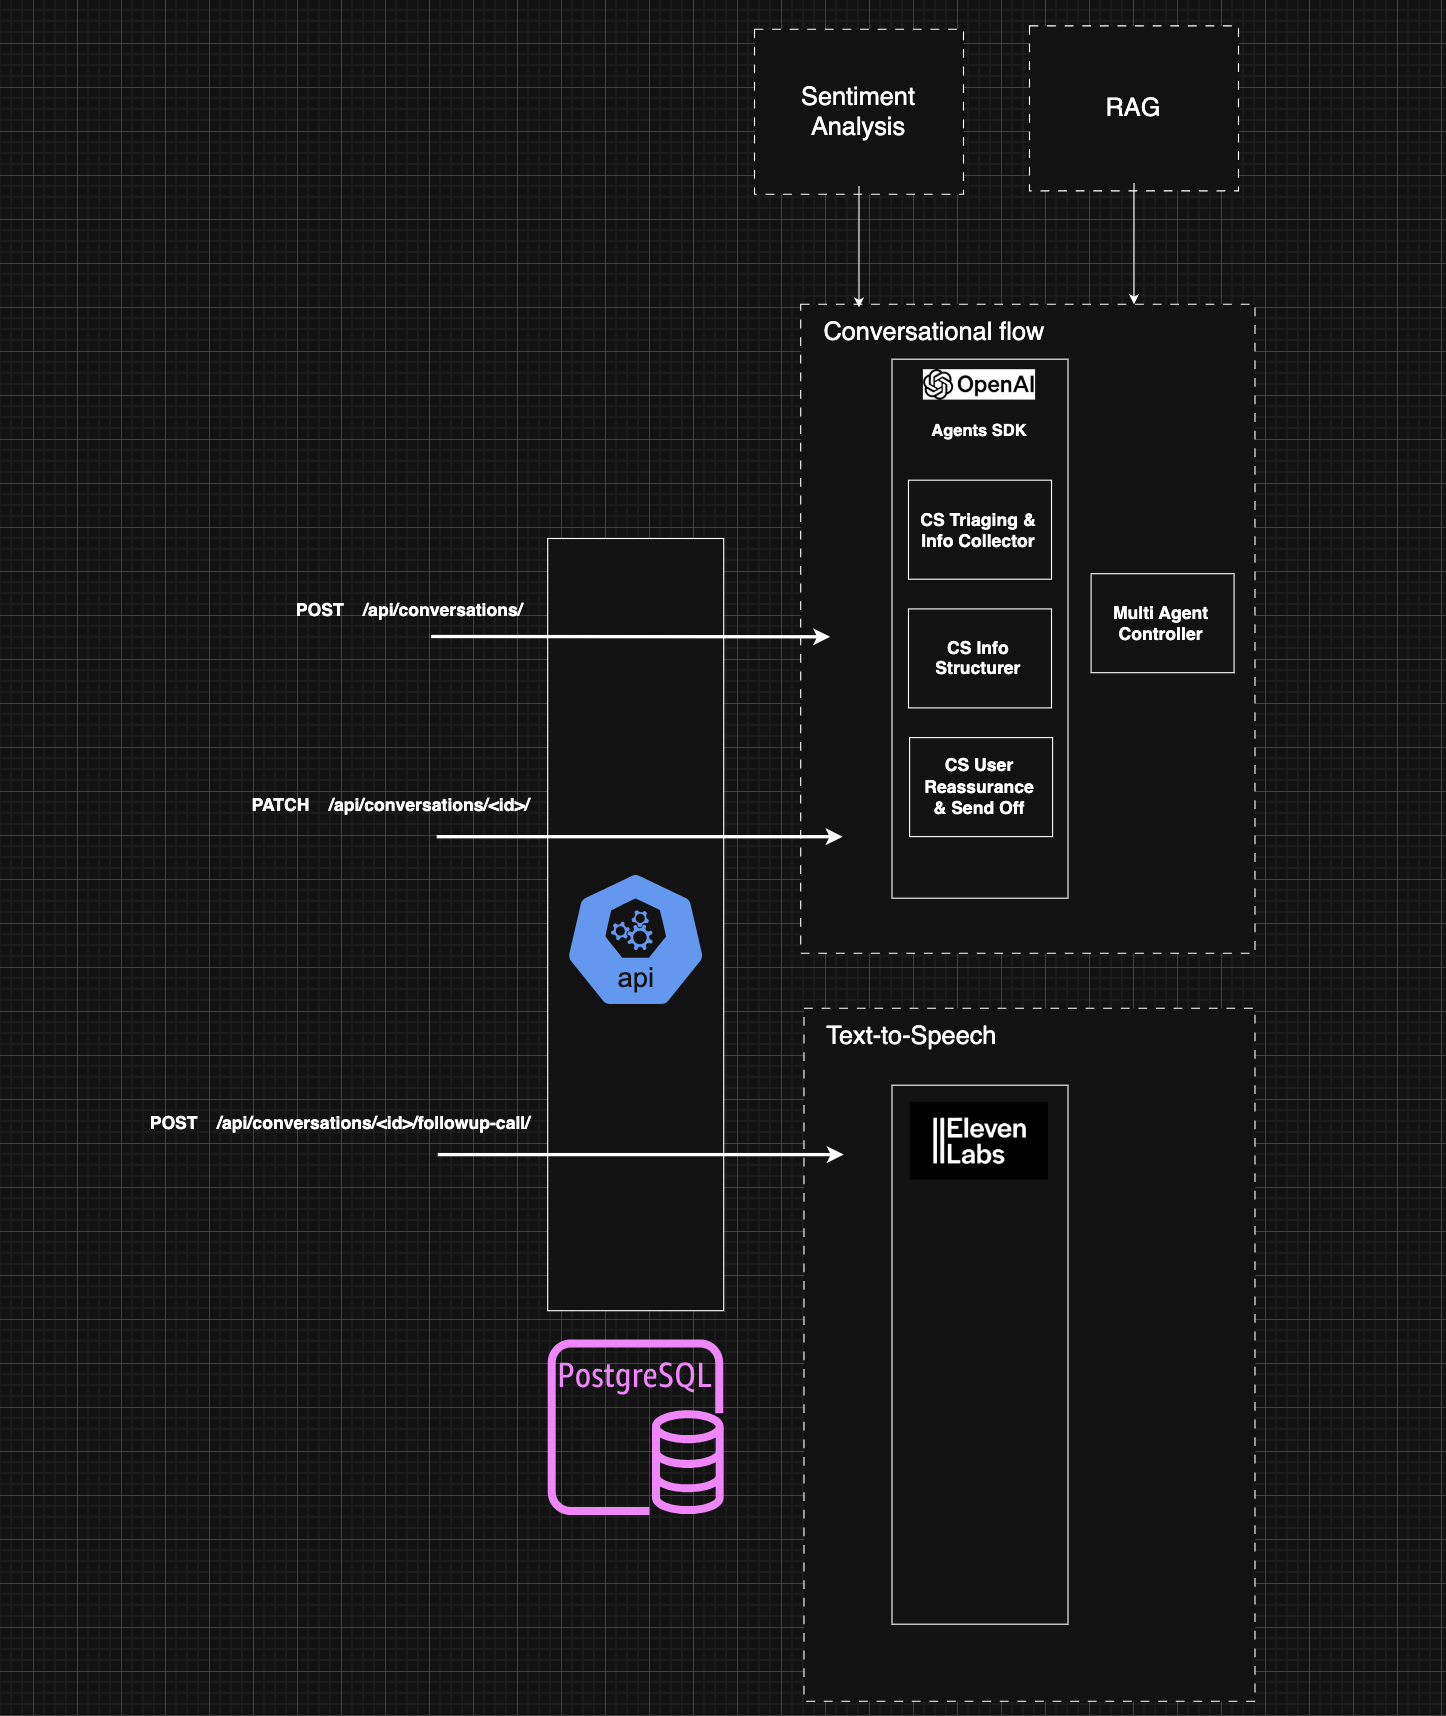
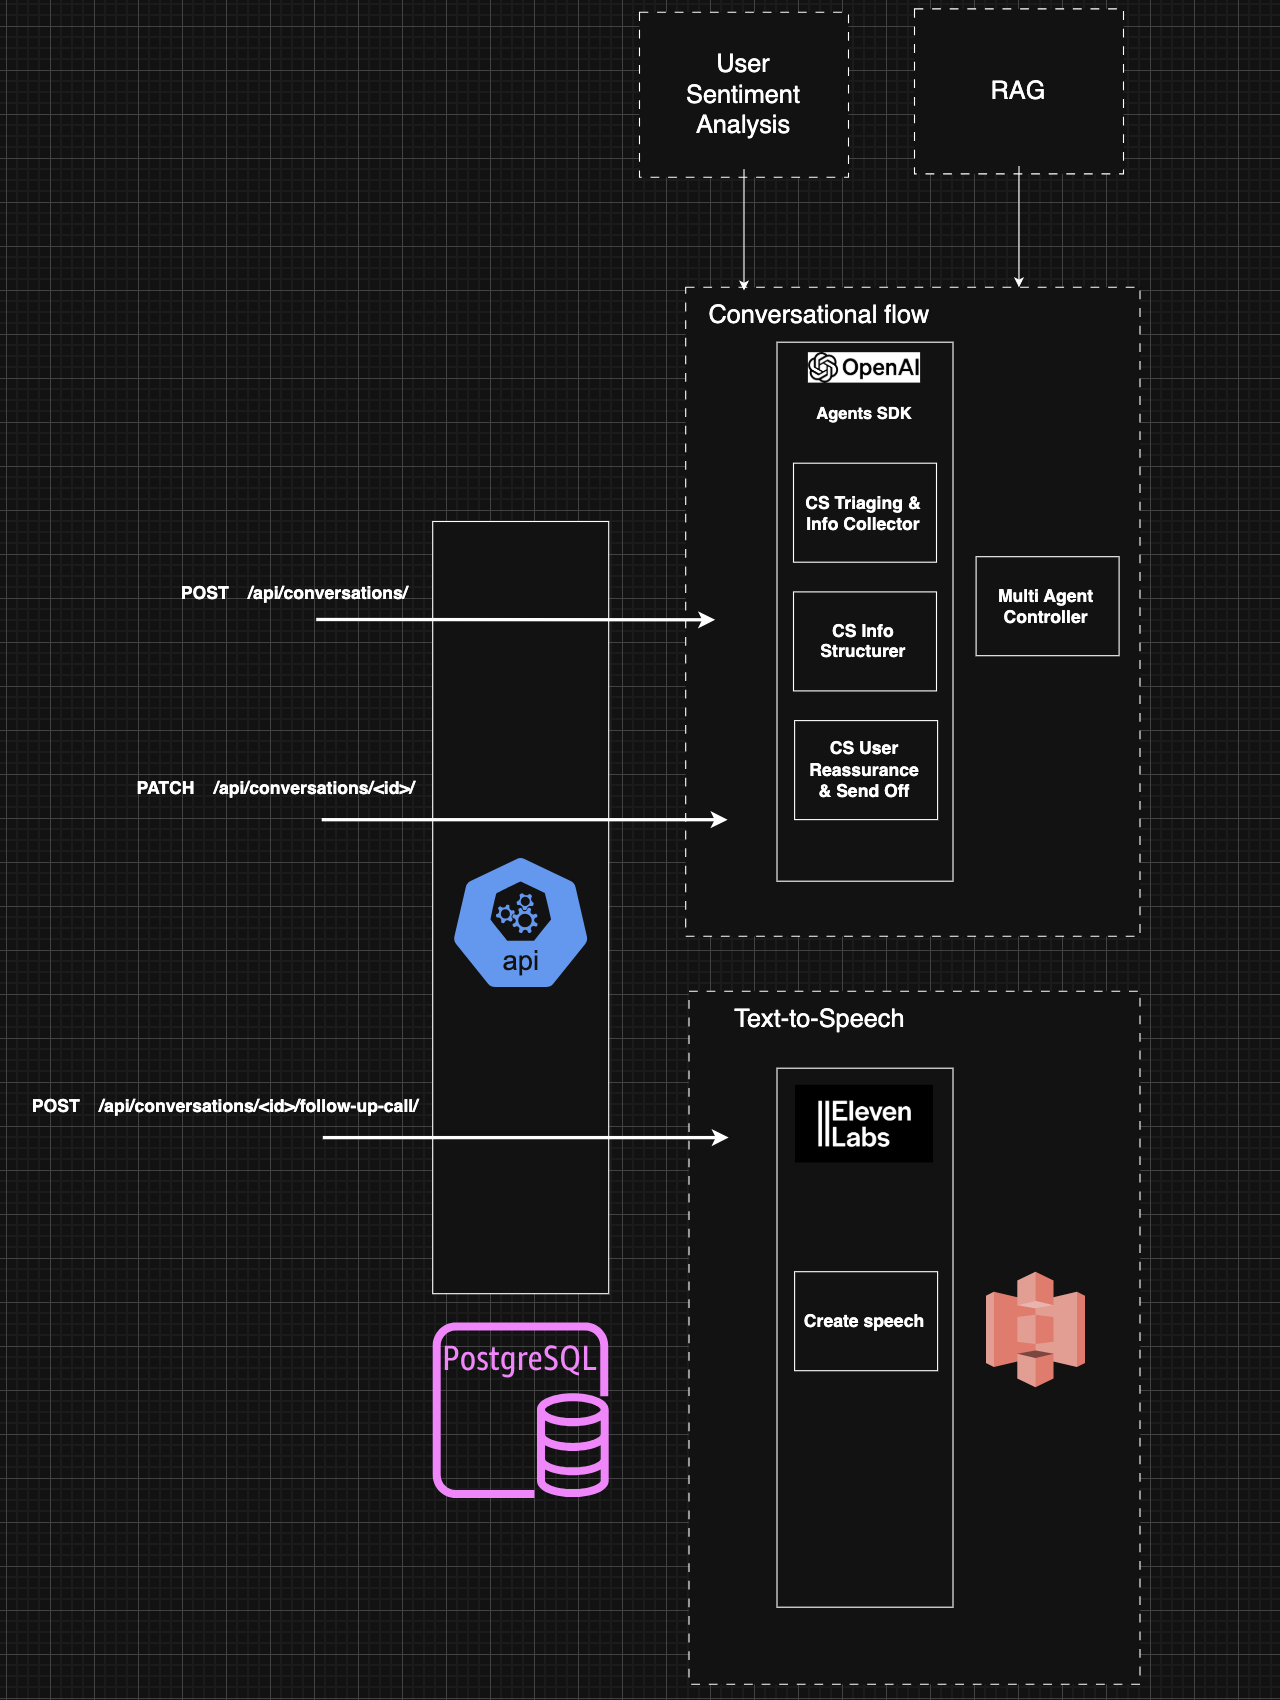
Fix error flows

diff --git a/src/agent/conversations/views.py b/src/agent/conversations/views.py
@@ -7,7 +7,7 @@ from rest_framework.request import Request
 from rest_framework.response import Response
 from rest_framework.exceptions import APIException, NotFound, NotAuthenticated
 
-from agent.conversations.exceptions import ConversationNotFound
+from agent.conversations.exceptions import ConversationNotFound, ConversationSummaryDoesntExist
 from agent.conversations.managers.creation import (
     ConversationCreationManager,
     ConversationCreateFollowupSpeechManager,
@@ -83,6 +83,13 @@ class ConversationCreateFollowupSpeechViewSet(viewsets.ViewSet):
             )
             raise NotFound(
                 detail="Conversation not found",
+            )
+        except ConversationSummaryDoesntExist as e:
+            logger.warning(
+                "conversation_view_post_followup_speech_summary_not_found", message=e
+            )
+            raise NotFound(
+                detail="Conversation summary not found",
             )
         except Exception as e:
             logger.error("conversation_view_post_followup_speech_post", message=e)

diff --git a/README.md b/README.md
@@ -2,7 +2,9 @@
 
 ## Setup instructions
 
-Note: an environment variable OPENAPI_API_KEY with a valid API key for the OpenAI API platform is necessary.
+Note: an environment variable OPENAPI_API_KEY with a valid API key for the OpenAI API platform is necessary. Also
+an environment variable ELEVEN_LABS_API_KEY is necessary to use Text-to-Speech on the
+`/api/conversations/<conversation_id>/follow-up-speech/` endpoint.
 
 - Run command:
 ```
